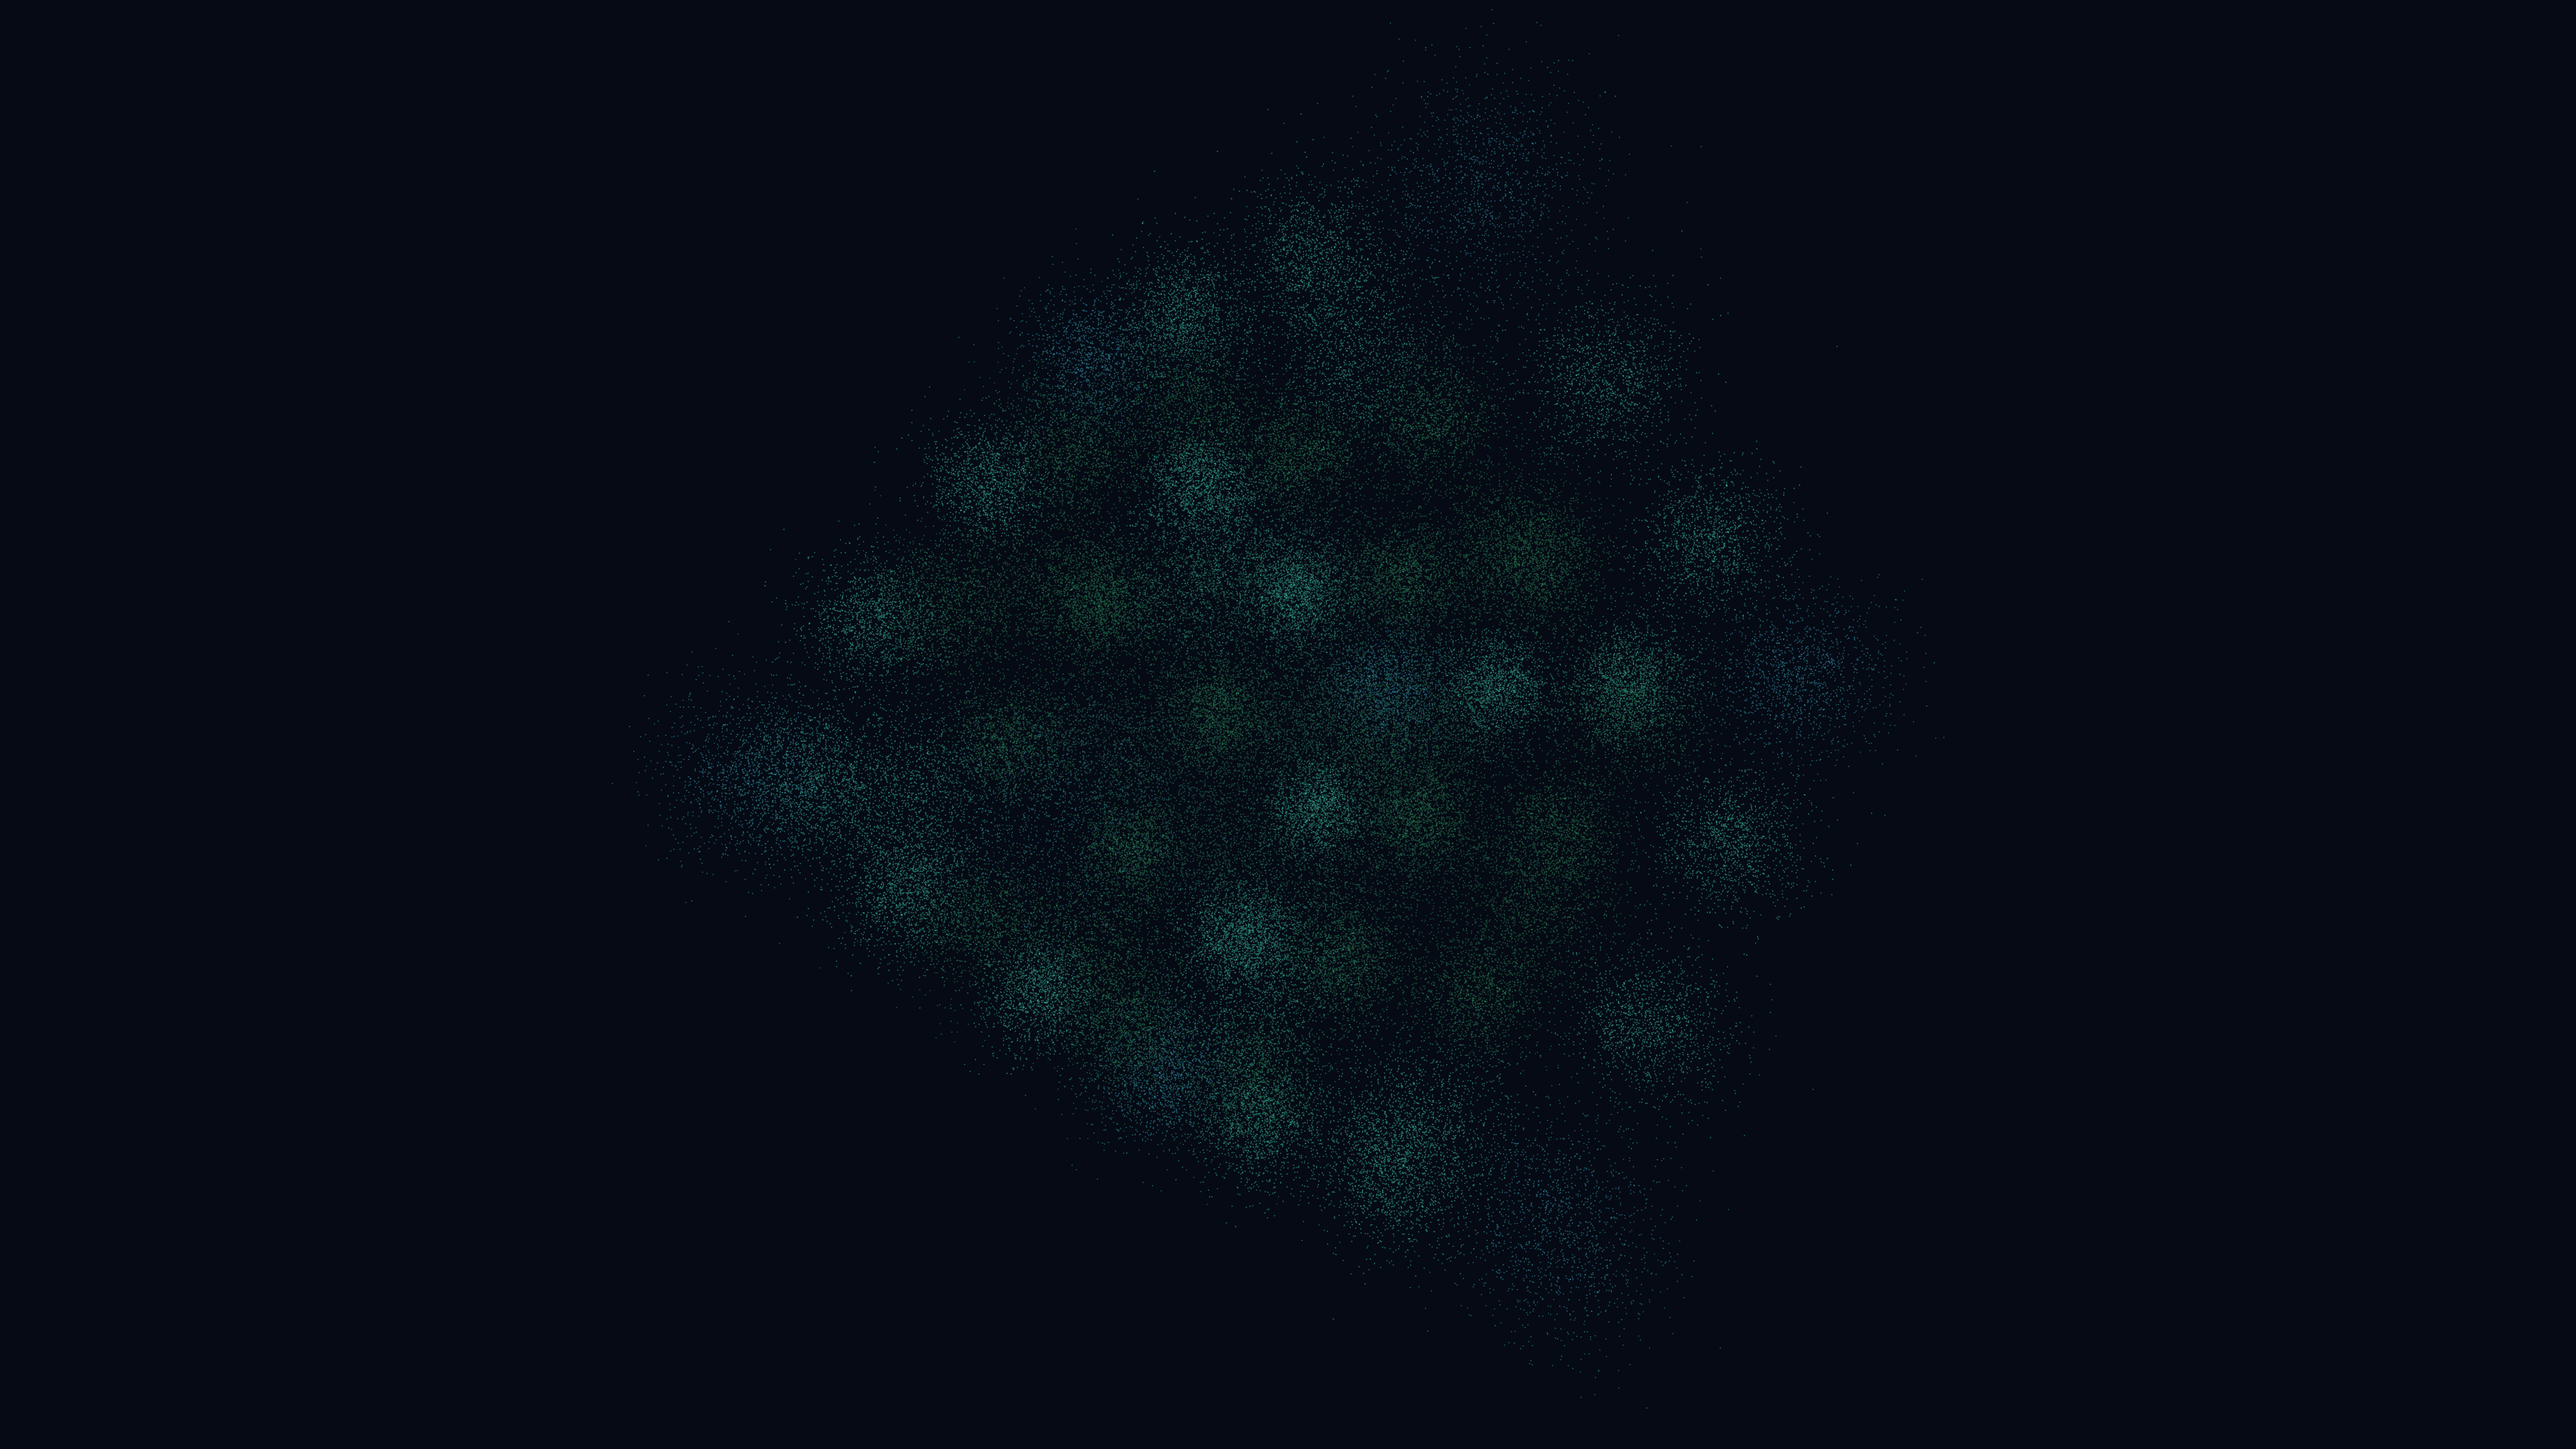
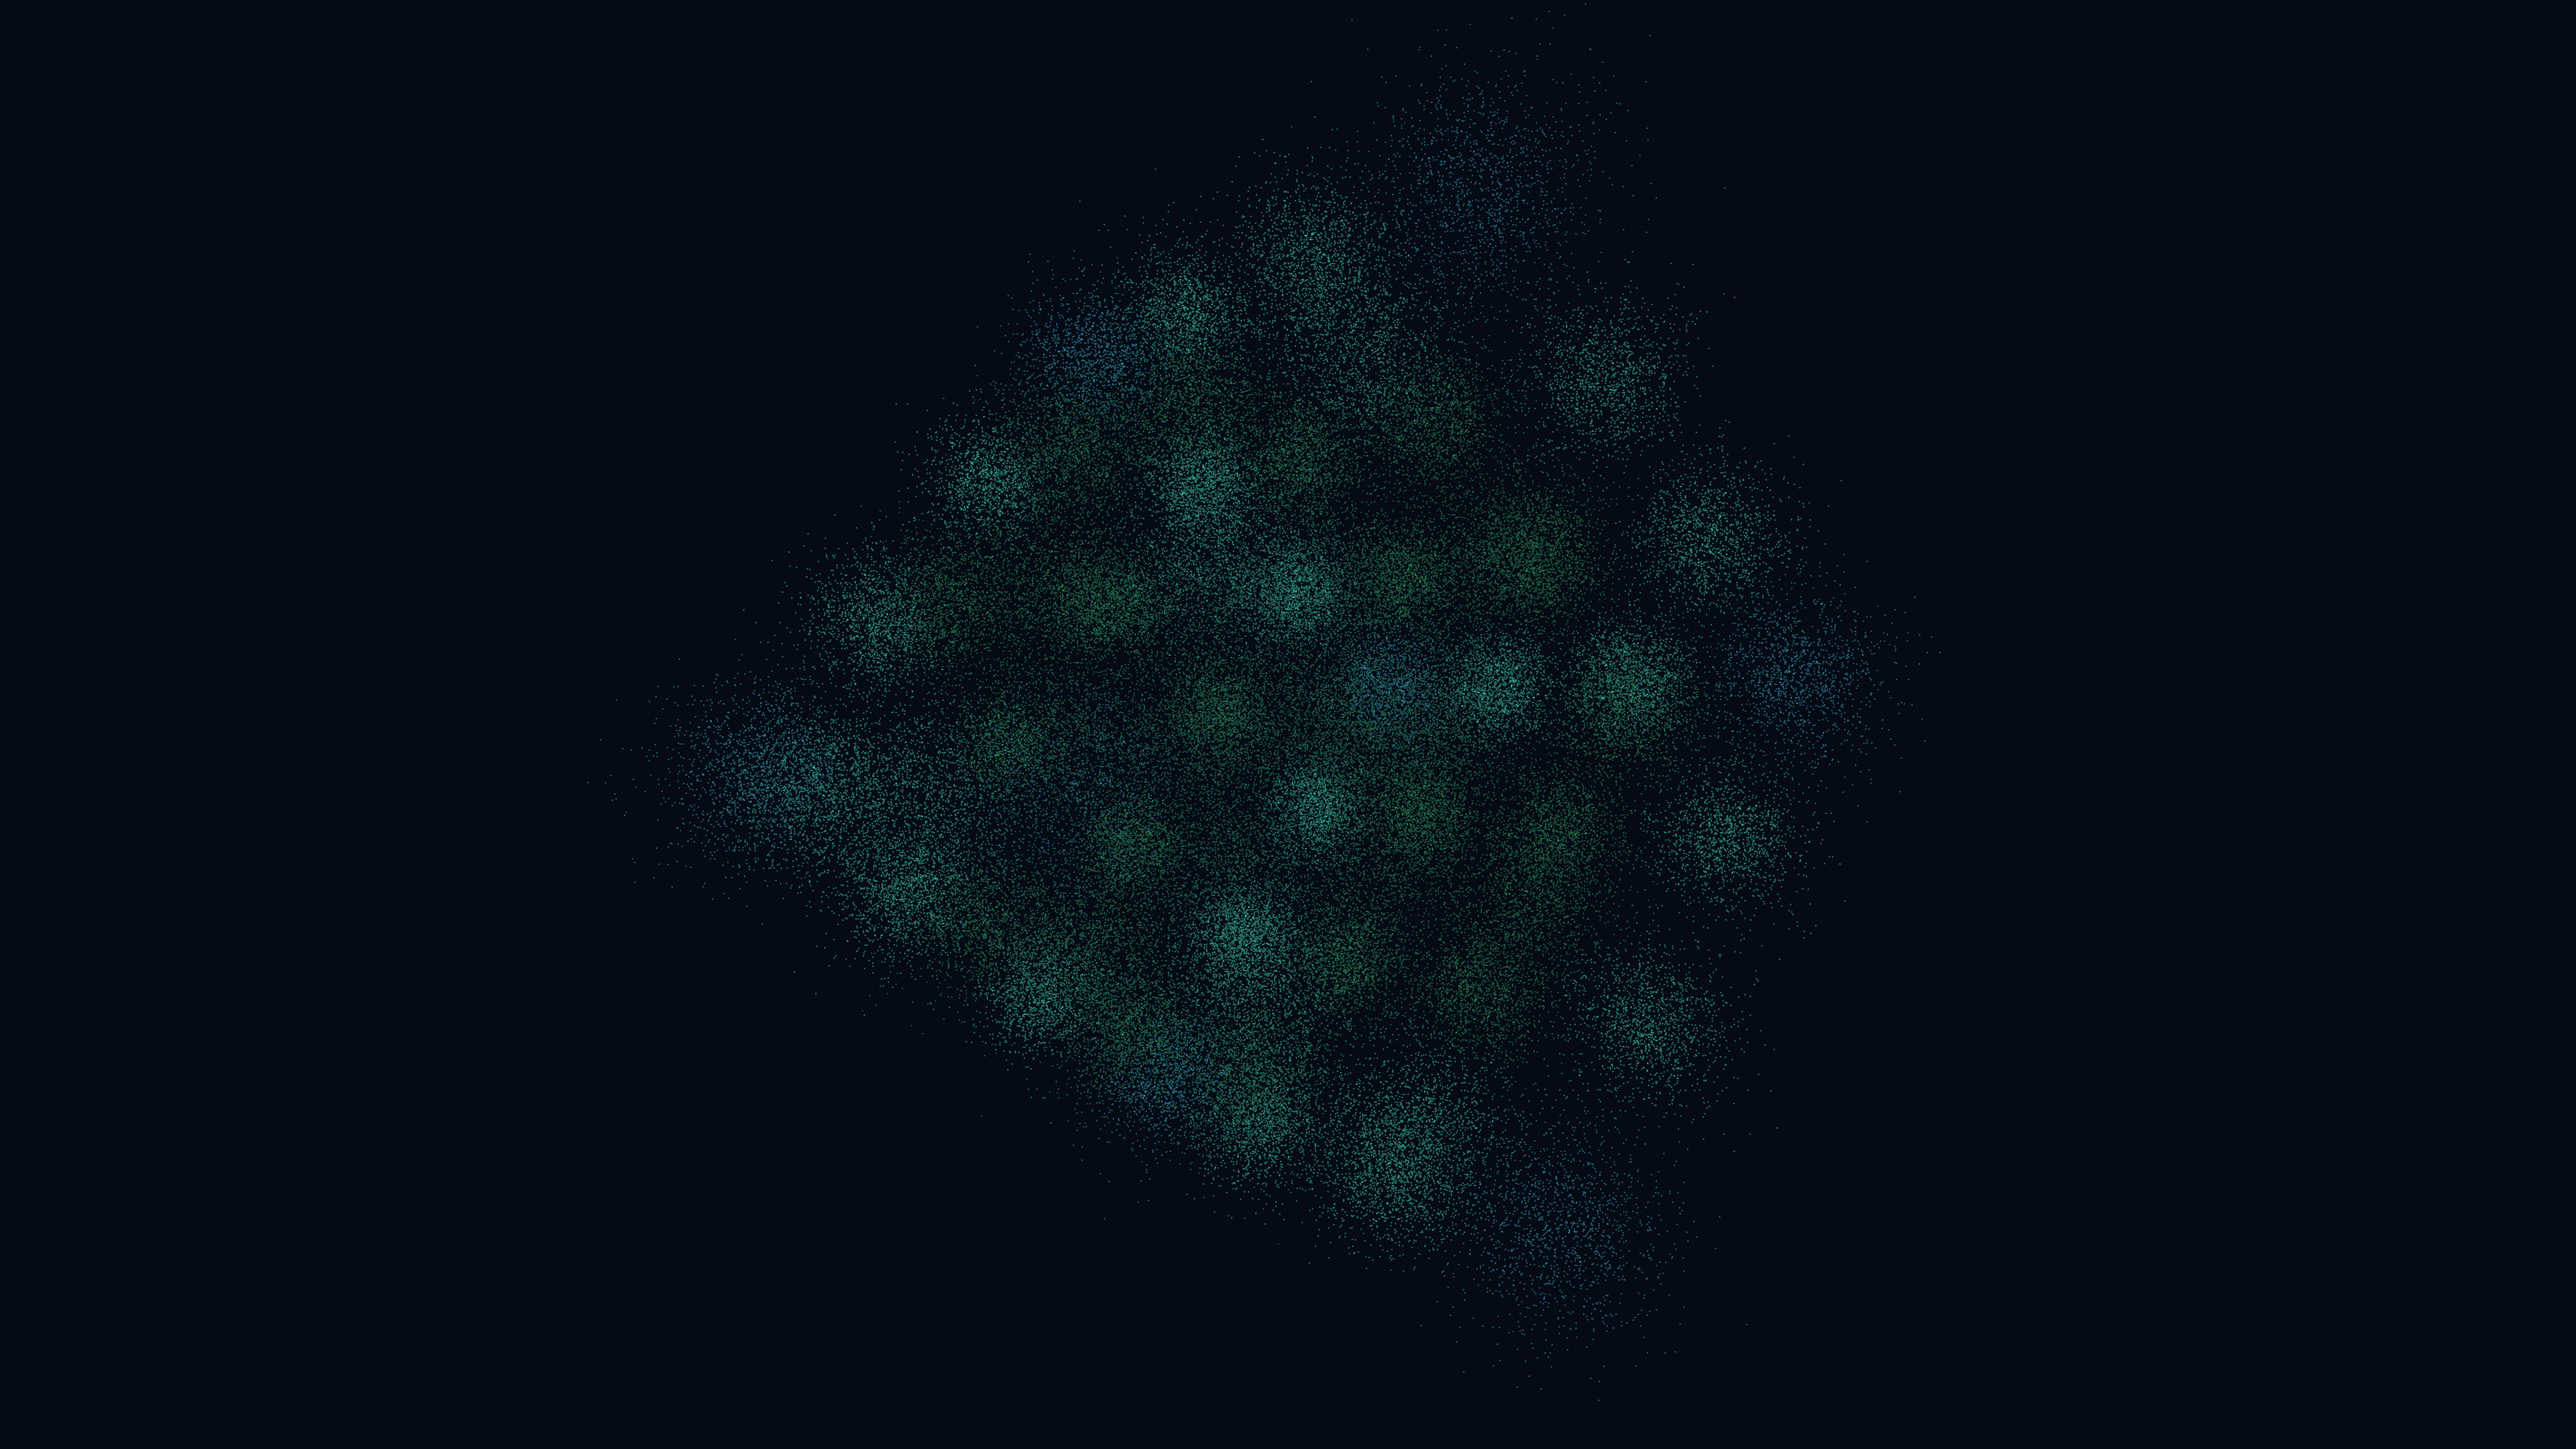
feat: upgrade supersolid_lattice_vibration to 4K resolution and render output

Changed region(s): [[0.25, 0.062, 0.7188, 0.8995]]

diff --git a/sketch/supersolid_lattice_vibration/main.py b/sketch/supersolid_lattice_vibration/main.py
@@ -18,13 +18,14 @@ DURATION_SEC = 15
 FPS = 60
 TOTAL_FRAMES = DURATION_SEC * FPS
 PREVIEW_FILENAME = f"{WORK_NAME}_p1.png"
-PREVIEW_SIZE, OUTPUT_SIZE, SIZE = get_sizes()
+PREVIEW_SIZE, OUTPUT_SIZE, _ = get_sizes()
+SIZE = OUTPUT_SIZE  # Force 4K resolution (3840x2160)
 
 # Simulation Parameters
 NUM_DROPLETS = 64 # 4x4x4
 PARTICLES_PER_DROPLET = 1500
 TOTAL_PARTICLES = NUM_DROPLETS * PARTICLES_PER_DROPLET
-LATTICE_STEP = 150.0
+LATTICE_STEP = 300.0  # Scaled up step for 4K canvas
 
 class SupersolidSimulation:
     def __init__(self, n_droplets, p_per_d):
@@ -40,8 +41,8 @@ class SupersolidSimulation:
             np.linspace(-(side-1)*LATTICE_STEP/2, (side-1)*LATTICE_STEP/2, side)
         ), axis=-1).reshape(-1, 3).astype(np.float32)
         
-        # Particle relative positions (droplet cloud)
-        self.rel_pos = np.random.normal(0, 30, (self.total, 3)).astype(np.float32)
+        # Particle relative positions (droplet cloud - scaled for 4K)
+        self.rel_pos = np.random.normal(0, 60, (self.total, 3)).astype(np.float32)
         self.droplet_idx = np.repeat(np.arange(n_droplets), p_per_d)
         
         self.phase = np.random.rand(n_droplets).astype(np.float32) * np.pi * 2
@@ -53,9 +54,9 @@ class SupersolidSimulation:
         k = np.array([0.01, 0.01, 0.01], dtype=np.float32)
         omega = 0.05
         
-        # Displacement of droplets
+        # Displacement of droplets (scaled amplitude and distance frequency for 4K)
         dist_to_origin = np.linalg.norm(self.grid, axis=1)
-        amp = 20.0 * np.sin(dist_to_origin * 0.01 - t * omega)
+        amp = 40.0 * np.sin(dist_to_origin * 0.005 - t * omega)
         disp = amp[:, np.newaxis] * k / np.linalg.norm(k)
         
         # Current centers
@@ -64,22 +65,32 @@ class SupersolidSimulation:
         # Particle positions
         p_pos = centers[self.droplet_idx] + self.rel_pos
         
-        # Breathing droplets
-        breath = 1.0 + 0.2 * np.sin(dist_to_origin[self.droplet_idx] * 0.02 - t * 0.1)
+        # Breathing droplets (scaled distance frequency for 4K)
+        breath = 1.0 + 0.2 * np.sin(dist_to_origin[self.droplet_idx] * 0.01 - t * 0.1)
         p_pos = centers[self.droplet_idx] + (self.rel_pos * breath[:, np.newaxis])
         
         return p_pos
 
 sim = SupersolidSimulation(NUM_DROPLETS, PARTICLES_PER_DROPLET)
 
+import shutil
+
 def setup():
     py5.size(*SIZE, py5.P3D)
+    py5.pixel_density(1)  # Capping at 1x density prevents Retina-doubling lag on 4K renders
     py5.smooth(8)
+    if FRAMES_DIR.exists():
+        shutil.rmtree(FRAMES_DIR)
     FRAMES_DIR.mkdir(exist_ok=True)
     py5.background(5, 10, 20)
 
 def draw():
     t = py5.frame_count
+    
+    # Progress logs to prevent command timeouts
+    if t % 60 == 0:
+        print(f"[Render Progress] Frame {t}/{TOTAL_FRAMES} ({t/TOTAL_FRAMES*100:.1f}%)")
+        
     py5.background(5, 10, 20)
     
     # 3D Camera
@@ -94,7 +105,7 @@ def draw():
     dist = np.linalg.norm(points, axis=1)
     
     py5.color_mode(py5.HSB, 360, 100, 100, 100)
-    py5.stroke_weight(1.0)
+    py5.stroke_weight(2.5)  # Balanced for 4K
     
     # Use additive blending for glowing effect
     # We'll split particles by droplet for slightly different hues
@@ -104,8 +115,8 @@ def draw():
         
         # Hue shifts from Blue (200) to Green (120) based on t and position
         d_center = np.linalg.norm(sim.grid[i])
-        hue = 180 + 40 * np.sin(d_center * 0.01 - t * 0.05)
-        alpha = 30 + 10 * np.sin(d_center * 0.02 + t * 0.1)
+        hue = 180 + 40 * np.sin(d_center * 0.005 - t * 0.05)  # Scaled distance frequency for 4K
+        alpha = 30 + 10 * np.sin(d_center * 0.01 + t * 0.1)  # Scaled distance frequency for 4K
         
         py5.stroke(hue, 70, 100, alpha)
         py5.points(p)
@@ -118,14 +129,25 @@ def draw():
 
     if py5.frame_count >= TOTAL_FRAMES:
         py5.exit_sketch()
+        
+        print(f"[Render FFmpeg] Compiling {TOTAL_FRAMES} frames into 4K video...")
         subprocess.run([
             "ffmpeg", "-y", "-r", str(FPS),
             "-i", str(FRAMES_DIR / "frame-%04d.png"),
             "-vcodec", "libx264", "-pix_fmt", "yuv420p",
-            "-crf", "28",
+            "-crf", "22",
             str(SKETCH_DIR / f"{WORK_NAME}.mp4"),
         ], check=True)
+        
+        # Mirror output
+        subprocess.run(["cp", str(SKETCH_DIR / f"{WORK_NAME}.mp4"), str(SKETCH_DIR / "output.mp4")], check=True)
+        
         mid = str(FRAMES_DIR / f"frame-{TOTAL_FRAMES // 2:04d}.png")
         subprocess.run(["cp", mid, str(SKETCH_DIR / PREVIEW_FILENAME)], check=True)
+        
+        # Clean up temporary frames
+        if FRAMES_DIR.exists():
+            shutil.rmtree(FRAMES_DIR)
+            print("[Render Cleanup] Temporary frames directory successfully removed.")
 
 py5.run_sketch()

diff --git a/.agents/FEEDBACK.md b/.agents/FEEDBACK.md
@@ -136,7 +136,7 @@ The Artist reads this file before starting a new sketch to understand preference
 
 ## supersolid_lattice_vibration
 
-- **Rating**: 
+- **Rating**: OK.
 - **Comment**: 
 
 ## dirac_fluid_turbulence
